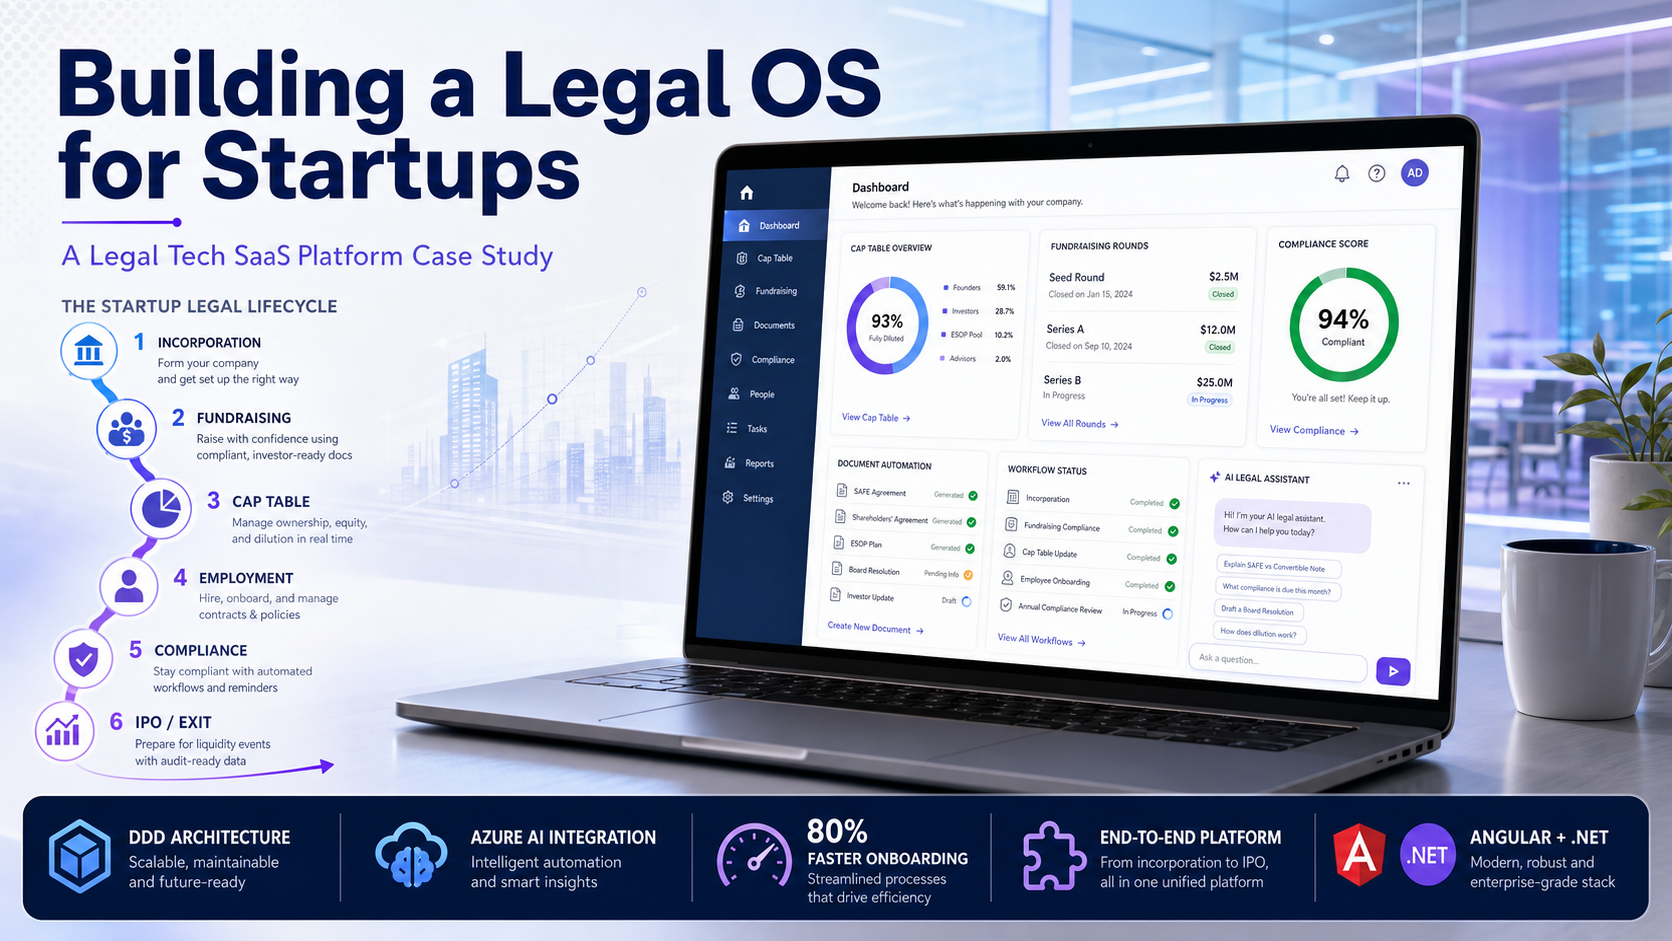
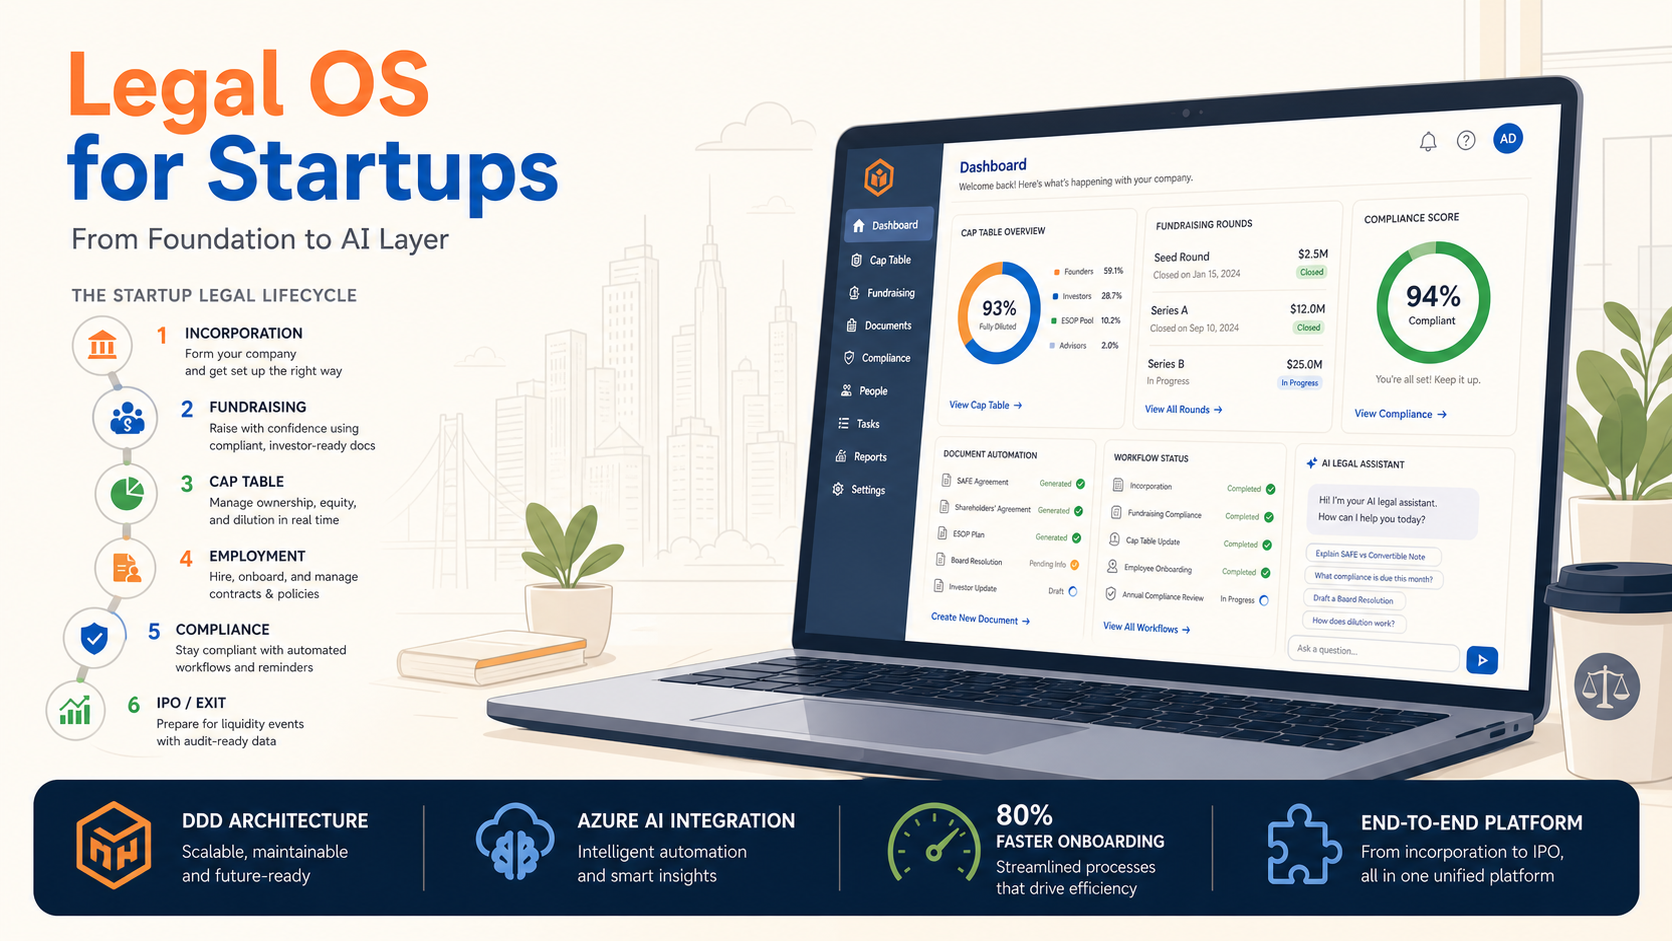
feat: update case study images and add new AI data classification case study
- Refresh all four existing case study images with new branded visuals (mining intelligence, SQL→Fabric, legal SaaS, 5G livestreaming)
- New case study: Reducing Manual Work by 80% — AI Data Classification in Mining
- Restore Books page in nav

diff --git a/src/pages/case-studies/mining-ai-data-classification.md b/src/pages/case-studies/mining-ai-data-classification.md
@@ -1,0 +1,90 @@
+---
+layout: ../../layouts/AboutLayout.astro
+title: "Reducing Manual Work by 80%: AI Data Classification in Mining"
+---
+
+> Originally published on the [Tecknoworks website](https://tecknoworks.com), May 2026.
+
+![AI data classification platform for mining — multilingual classification, human-in-the-loop review, and analytics in one workflow](../../assets/images/posts/mining-ai-data-classification.png)
+
+<div class="not-prose my-10 grid grid-cols-2 gap-4 sm:grid-cols-4">
+  <div class="rounded-lg border border-border p-5 text-center">
+    <div class="text-3xl font-bold text-accent">80%</div>
+    <div class="mt-2 text-sm opacity-80">Manual work reduction</div>
+  </div>
+  <div class="rounded-lg border border-border p-5 text-center">
+    <div class="text-xl font-bold text-accent">Days → Minutes</div>
+    <div class="mt-2 text-sm opacity-80">Classification time</div>
+  </div>
+  <div class="rounded-lg border border-border p-5 text-center">
+    <div class="text-3xl font-bold text-accent">94%</div>
+    <div class="mt-2 text-sm opacity-80">Classification accuracy</div>
+  </div>
+  <div class="rounded-lg border border-border p-5 text-center">
+    <div class="text-3xl font-bold text-accent">3 engineers</div>
+    <div class="mt-2 text-sm opacity-80">Built the full platform</div>
+  </div>
+</div>
+
+**Client:** Top-three global management consultancy providing operational intelligence to mining companies.
+
+**Industry:** Mining intelligence.
+
+**My Role:** Led the engagement at Tecknoworks.
+
+---
+
+Most teams trying production AI focus on the model. That's the easy part. The hard part is everything around it: the workflow that fits how people actually use the tool, the human review layer that catches what the AI gets wrong, the validation that makes the output trustworthy enough to ship.
+
+This shows up clearly in AI data classification. The model handles one language fine and chokes on the next. Accuracy looks great on a clean test set and collapses on real spreadsheets where the same equipment failure shows up under five different names. Domain experts won't trust the output, so they re-check every row — and the automation saves no time at all. The model isn't where these projects fail. They fail in everything around it: language handling, taxonomy enforcement, review workflows, and the architecture that decides when rules should override predictions.
+
+## The problem: the work that has to happen before the work
+
+Volatile commodity prices and shifting market valuations are pushing mine operators to cut costs and squeeze more from existing operations. Our client built a platform for exactly that — analyzing labor, cost, and equipment-productivity data, benchmarking it against a global peer set, and surfacing where the real improvement opportunities are.
+
+The issue was what had to happen before any of that analysis could begin.
+
+Every mining company records things differently. A truck breakdown might show up as *"Mech Engine"* in one file and *"Avería mecánica del motor"* in another. Different formats, different languages, different terminology. Before any real analysis could start, a consultant had to open each spreadsheet and classify every row into a standard taxonomy. Thousands of rows. By hand.
+
+This happened on every engagement. Consultants were spending days on classification before they could get to the analytical work their clients were actually paying for.
+
+## The bar wasn't accuracy — it was trust
+
+The client wanted to automate classification. But accuracy matters when the output feeds directly into client-facing analysis. A model that gets it right 60% of the time creates more cleanup work than it saves.
+
+They needed a production platform: an AI that classifies across languages, a human review layer so domain experts stay in control, and an interface that fits into how consultants actually work. Upload, map, classify, review, export. No room for missed steps or inconsistent process.
+
+## What we built
+
+Together with the client, we built an 8-step guided workflow that takes raw mine-site spreadsheets and produces analysis-ready datasets. Upload a file, map the relevant columns, and the AI classifies everything in minutes — reducing manual classification work by roughly 80%.
+
+The taxonomy covers real operational depth: **129 cost categories, 33 labor roles, and ~160 equipment delay types across four equipment classes.** The platform handles data in any language, translating before classification and preserving original values for export.
+
+Every AI classification goes through human-in-the-loop review. Consultants see each suggestion, accept or override it, and export a clean dataset. Nothing is finalized without a human decision.
+
+On top of that we built an analytics engine. From classified equipment data, the system generates 13 pre-formatted analysis tables (OEE breakdowns, maintenance reliability, utilization summaries, benchmark comparisons) packaged as a single download.
+
+The accuracy story is worth telling. Equipment-delay classification started at 56% and was improved to **94% at the category level** through prompt engineering, targeted examples, and a hybrid architecture: AI handles granular prediction while a rules engine enforces category-level consistency. During evaluation, the team found 79 cases where the AI was right and the human-labeled training data was wrong.
+
+## Results
+
+- **80% reduction** in manual classification work.
+- **94% classification accuracy** at category level (up from a 56% baseline).
+- **Days → minutes** per spreadsheet.
+- **3 active classification domains** live in production, with a fourth in development.
+- **180× fewer AI API calls** via smart deduplication.
+- **277 automated tests** covering the full pipeline.
+
+Classification that used to take days now takes minutes. Consultants moved from data entry to quality review. Results are consistent across engagements regardless of source language or site format.
+
+A small team of three engineers built the entire production-grade platform from scratch over 9.5 months: AI classification engine, full-stack web application, cloud infrastructure as code, and a rigorous evaluation framework. The platform runs on a .NET 9 backend on Azure and handles files up to 500 MB.
+
+## The pattern beyond mining
+
+AI data classification isn't a mining problem — it's a production AI problem.
+
+Every organization that collects operational data across multiple sites or regions faces some version of this. Inconsistent formats, different languages, manual standardization that eats time and introduces errors. The bottleneck is always the same: getting from raw data to something you can actually analyze.
+
+The AI classification model was one piece. The production platform around it — the workflow, the validation, the human review, the multilingual support, the analytics engine — is what made it usable at scale.
+
+The AI was the easy part. The trust layer around it is what made the math work.

diff --git a/src/pages/case-studies/index.md b/src/pages/case-studies/index.md
@@ -6,6 +6,26 @@ wide: true
 
 A selection of production AI engagements I've led.
 
+<a href="/case-studies/mining-ai-data-classification" class="not-prose group my-10 flex flex-col gap-4 rounded-lg border border-border p-5 transition-colors hover:border-accent sm:flex-row sm:gap-6 sm:p-6">
+  <img
+    src="/images/case-studies/mining-ai-data-classification.png"
+    alt="AI data classification platform for mining — multilingual classification, human-in-the-loop review, and analytics dashboards"
+    class="w-full h-44 object-cover rounded-md sm:w-72 sm:h-auto sm:self-stretch flex-shrink-0"
+    loading="lazy"
+  />
+  <div class="flex-1 min-w-0">
+    <h2 class="text-xl font-bold text-accent group-hover:underline decoration-dashed underline-offset-4">
+      Reducing Manual Work by 80%: AI Data Classification in Mining
+    </h2>
+    <p class="mt-3 text-sm opacity-80">
+      <strong>Client:</strong> Top-three global management consultancy. <strong>Industry:</strong> Mining intelligence.
+    </p>
+    <p class="mt-3">
+      Built a production-grade AI classification platform from scratch — multilingual data handling, 94% accuracy across 129 cost categories and ~160 equipment delay types, human-in-the-loop review. Days of manual classification cut to minutes.
+    </p>
+  </div>
+</a>
+
 <a href="/case-studies/mining-intelligence-data-extraction" class="not-prose group my-10 flex flex-col gap-4 rounded-lg border border-border p-5 transition-colors hover:border-accent sm:flex-row sm:gap-6 sm:p-6">
   <img
     src="/images/case-studies/mining-intelligence-data-extraction.png"
